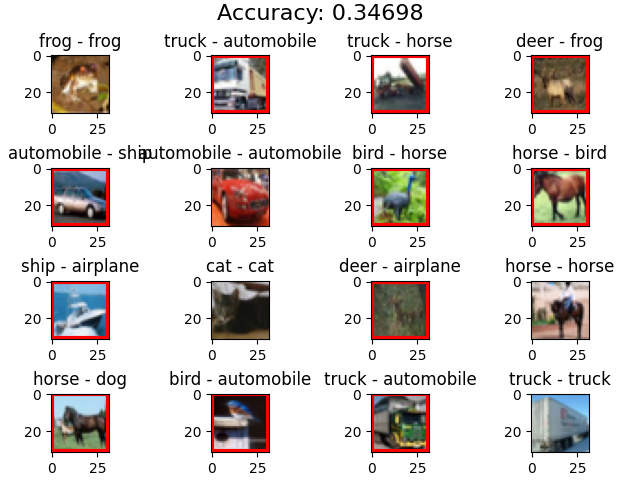
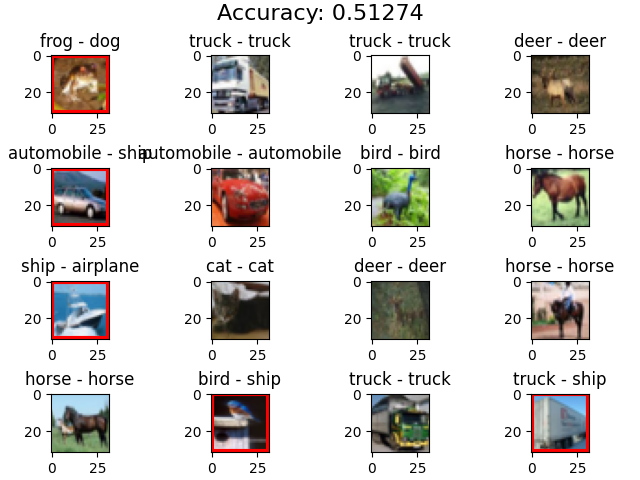
BUG: fixing bug in hyperparam tuning; reducing logs in downstream script; updating cifar results;

diff --git a/downstream.py b/downstream.py
@@ -41,7 +41,7 @@ def do_train_epoch(dataloader: DataLoader,
             print("NaNs in loss function, loss-sum: {}".format(torch.sum(loss)))
         total_loss += loss
         
-        if i%100==0:
+        if i%1000==0:
             wandb.log({'current_loss':loss,
                        'running_loss':total_loss, 
                        'batch_num':i,
@@ -54,7 +54,7 @@ def do_train_epoch(dataloader: DataLoader,
         if lr_sched:
             lr_sched.step()
         
-        if step%500==0:
+        if step%1000==0:
             print("Step: {}\tLoss: {:.2f}".format(step, loss))
         step+=1
 
@@ -207,7 +207,7 @@ def validate_task(dataset_path: str,
                                   batch_size=batch_size, 
                                   )
                                 
-    model = DownStreamNet(model_name='swsl_resnet50',
+    model = DownStreamNet(model_name='resnet50',
                           pretrained=True)
 
     # LOAD MODEL ENCODER 
@@ -272,8 +272,8 @@ if __name__ == '__main__':
 
     train_task(dataset_path           = 'CIFAR10',
                pretrained_weight_path = './models/CIFAR10/pretrain_model_30.pth',
-               init_lr                = 5e-4,
-               batch_size             = 32,
+               init_lr                = 4e-4,
+               batch_size             = 64,
                shuffle                = True,
                num_workers            = 4,
                num_epochs             = 30,

diff --git a/hyperparam_tune.py b/hyperparam_tune.py
@@ -102,7 +102,7 @@ def objective_downstream(trial):
     kwargs = DEFAULT_HYPERPARAMS.copy()
     kwargs.update(simsiam_params(trial))
 
-    pretrained_weight_path = './models/CIFAR10/pretrain_model_30.pth',
+    pretrained_weight_path = './models/CIFAR10/pretrain_model_30.pth'
     
     shuffle = True
     num_workers = 4
@@ -150,7 +150,7 @@ def objective_downstream(trial):
     optimizer = torch.optim.Adam(params=model.parameters(), 
                                  lr=kwargs['max_lr'],
                                  )
-    lr_sched = OneCycleLR(optimizer=optim,
+    lr_sched = OneCycleLR(optimizer=optimizer,
                           max_lr=kwargs['max_lr'],
                           epochs=EPOCHS,
                           steps_per_epoch=len(train_dataloader),
